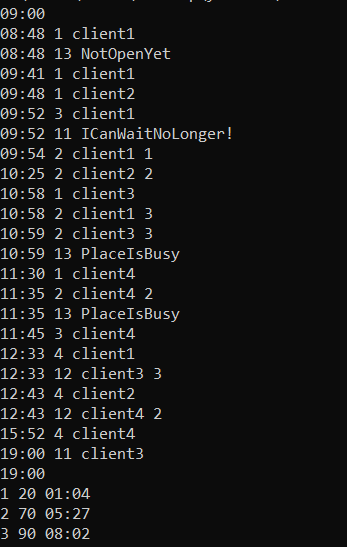
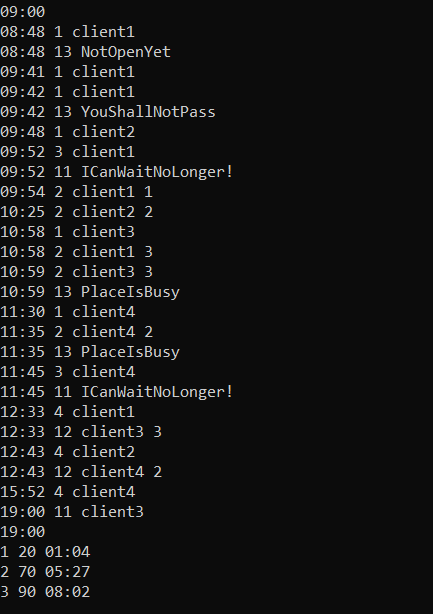
init

Changed region(s): [[0.0, 0.0, 0.6628, 0.9945]]

diff --git a/Processing_Event.cpp b/Processing_Event.cpp
@@ -38,7 +38,7 @@ bool check_format(string str, regex regexPattern) {
     return true;
 }
 
-bool check_id(int n, string s){
+bool check_id(int n, string s) {
     if (n > 4) {
         cout << "Line error: " << s << endl;
         return false;
@@ -99,11 +99,19 @@ void Processing_Event::parse_file(string filename) {
         }
         temp.set_id(stoi(s.substr(pos + 1, pos2)));
 
+        int pos3 = 0;
         if (temp.get_id() == 2) {
-            pos = s.find(' ', pos2 + 1);
-            temp.set_name_client(s.substr(pos2 + 1, pos));
-            temp.set_name_client(temp.get_name_client().substr(0, 7));
-            temp.set_table(stoi(s.substr(pos + 1)));
+            pos = s.find(' ', pos + 1);
+            string str = s.substr(pos + 1, pos2);
+            if (str.find(' ') != -1) {
+                pos3 = str.find(' ');
+                str.erase(pos3);
+            }
+            pos3 = s.find(' ', pos2 + 1);
+            temp.set_name_client(str);
+            string sss = (s.substr(pos3));
+            sss.erase(find(sss.begin(), sss.end(), ' '));
+            temp.set_table(stoi(sss));
         } else {
             temp.set_name_client(s.substr(pos2 + 1));
             temp.set_table(0);
@@ -135,7 +143,7 @@ Processing_Event::outgoing_events(Info_Club information, Event e, multimap<strin
     }
 
     if (e.get_id() == 1) {
-        queue.insert(make_pair<string, int> (e.get_name_client(), e.get_table()));
+        queue.insert(make_pair<string, int>(e.get_name_client(), e.get_table()));
     }
 
     if (!queue.count(e.get_name_client()) && e.get_id() != 1) {
@@ -146,14 +154,15 @@ Processing_Event::outgoing_events(Info_Club information, Event e, multimap<strin
     }
     bool check_queue = false;
     for (auto &pos: queue) {
-        if (pos.second == -1) {
+//        if (pos.second == -1 || pos.second == 0) {
+        if (pos.second == -1 || pos.second == 0) {
             check_queue = true;
         }
     }
 
     if (e.get_id() == 4) {
         for (auto it = time_tables.begin(); it < time_tables.end(); ++it) {
-            if (it->get_name_client() == e.get_name_client() && it->get_finish_time() == pair<int, int> (0,0)) {
+            if (it->get_name_client() == e.get_name_client() && it->get_finish_time() == pair<int, int>(0, 0)) {
                 it->set_finish_time(e.get_cur_time());
             }
         }
@@ -165,7 +174,7 @@ Processing_Event::outgoing_events(Info_Club information, Event e, multimap<strin
         int outgoing_client_table;
         string outgoing_client_name;
         for (auto pos = queue.begin(); pos != queue.end(); pos++) {
-            if (pos->second == -1) {
+            if (pos->second == -1 || pos->second == 0) {
                 outgoing_client_table = queue.find(e.get_name_client())->second;
                 out_event.set_table(outgoing_client_table);
                 queue.erase(queue.find(e.get_name_client()));
@@ -219,7 +228,7 @@ Processing_Event::outgoing_events(Info_Club information, Event e, multimap<strin
     }
 
 
-    if (e.get_id() == 3){
+    if (e.get_id() == 3) {
         if (contain_table_name != e.get_name_client()) {
             for (auto &pos: queue) {
                 if (pos.first == e.get_name_client()) {
@@ -236,7 +245,7 @@ Processing_Event::outgoing_events(Info_Club information, Event e, multimap<strin
             count_client_wait++;
         }
     }
-    if (e.get_id() == 3 && busy_tables == information.get_num_tables() && count_client_wait > busy_tables){
+    if (e.get_id() == 3 && busy_tables == information.get_num_tables() && count_client_wait > busy_tables) {
         out_event.set_id(11);
         out_event.set_name_client(e.get_name_client());
         queue.erase(queue.find(e.get_name_client()));
@@ -244,12 +253,13 @@ Processing_Event::outgoing_events(Info_Club information, Event e, multimap<strin
     }
 
     if (e.get_id() == 2) {
+        int size = time_tables.size();
         for (auto &pos: queue) {
             if (pos.first == e.get_name_client()) {
                 if (pos.second > 0) {
-                    int size = time_tables.size();
                     for (int i = 0; i < size; i++) {
-                        if (time_tables[i].get_name_client() == e.get_name_client()){
+                        if (time_tables[i].get_name_client() == e.get_name_client() &&
+                            time_tables[i].get_finish_time() == pair<int, int>(0, 0)) {
                             Time_Table tmp;
                             tmp.set_name_client(e.get_name_client());
                             tmp.set_start_time(e.get_cur_time());
@@ -259,8 +269,7 @@ Processing_Event::outgoing_events(Info_Club information, Event e, multimap<strin
                             pos.second = e.get_table();
                         }
                     }
-                }
-                else {
+                } else {
                     pos.second = e.get_table();
                     busy_tables++;
                     Time_Table tmp;
@@ -273,7 +282,7 @@ Processing_Event::outgoing_events(Info_Club information, Event e, multimap<strin
         }
     }
 
-    if (e.get_id() == 3 && queue.size() < information.get_num_tables()) {
+    if (e.get_id() == 3 && busy_tables < information.get_num_tables()) {
         out_event.set_id(11);
         out_event.set_name_client("ICanWaitNoLonger!");
         return out_event;
@@ -302,10 +311,10 @@ void Processing_Event::print() {
         temp.set_name_client(it.first);
         temp.set_id(11);
         temp.set_table(0);
-        temp.set_cur_time(pair<int, int>(19, 0));
+        temp.set_cur_time(pair<int, int>(information.get_finish_time().first, information.get_finish_time().second));
         for (auto &it2: time_tables) {
             if (it2.get_finish_time() == pair<int, int>(0, 0)) {
-                it2.set_finish_time(pair<int, int>(19, 0));
+                it2.set_finish_time(pair<int, int>(information.get_finish_time().first, information.get_finish_time().second));
             }
         }
         cout << convert_to_string_outgoing_event(temp) << endl;
@@ -375,7 +384,7 @@ void Processing_Event::revenue_calculation() {
         sum_minutes = 0;
         cur_minutes = 0;
         a.price = 0;
-        a.table = t_o_c[i].first;
+        a.table = i + 1;
         if (a.table > information.get_num_tables() || a.table < 0) {
             break;
         }
@@ -385,7 +394,7 @@ void Processing_Event::revenue_calculation() {
                 cur_minutes += sum_minutes;
                 p = minutes_to_hours(sum_minutes);
                 if (p.second > 0) {
-                    a.price += p.first * information.get_price() + 10;
+                    a.price += p.first * information.get_price() + information.get_price();
                 } else {
                     a.price += p.first * information.get_price();
                 }

diff --git a/main.cpp b/main.cpp
@@ -3,7 +3,7 @@ using namespace std;
 
 
 int main(int argc, char* argv[]) {
-    ifstream file("file");
+    ifstream file(argv[1]);
     if (!file.is_open()) {
         cout << "Error: cannot open input file " << argv[1] << endl;
         return 1;
